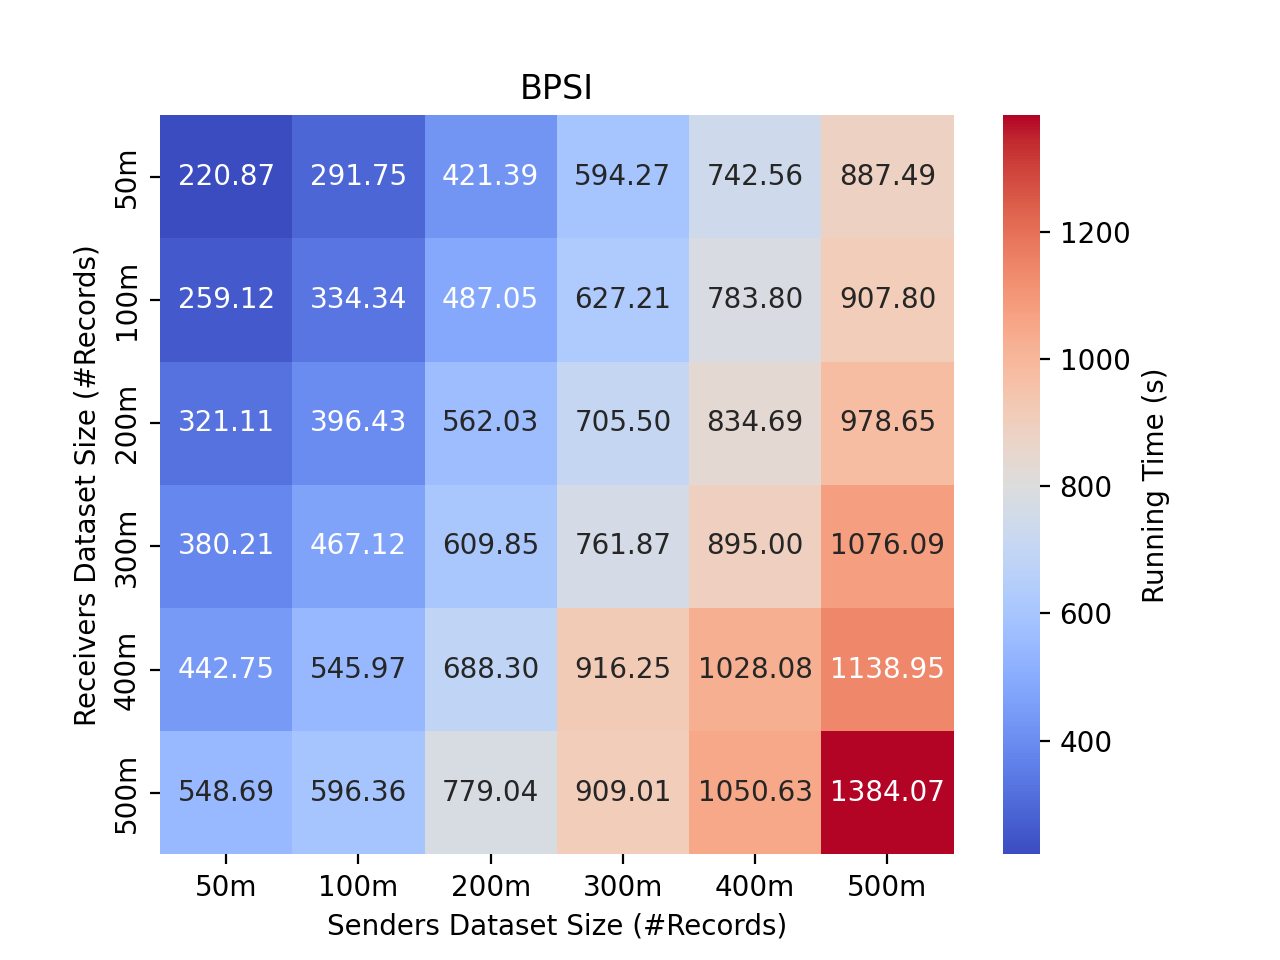
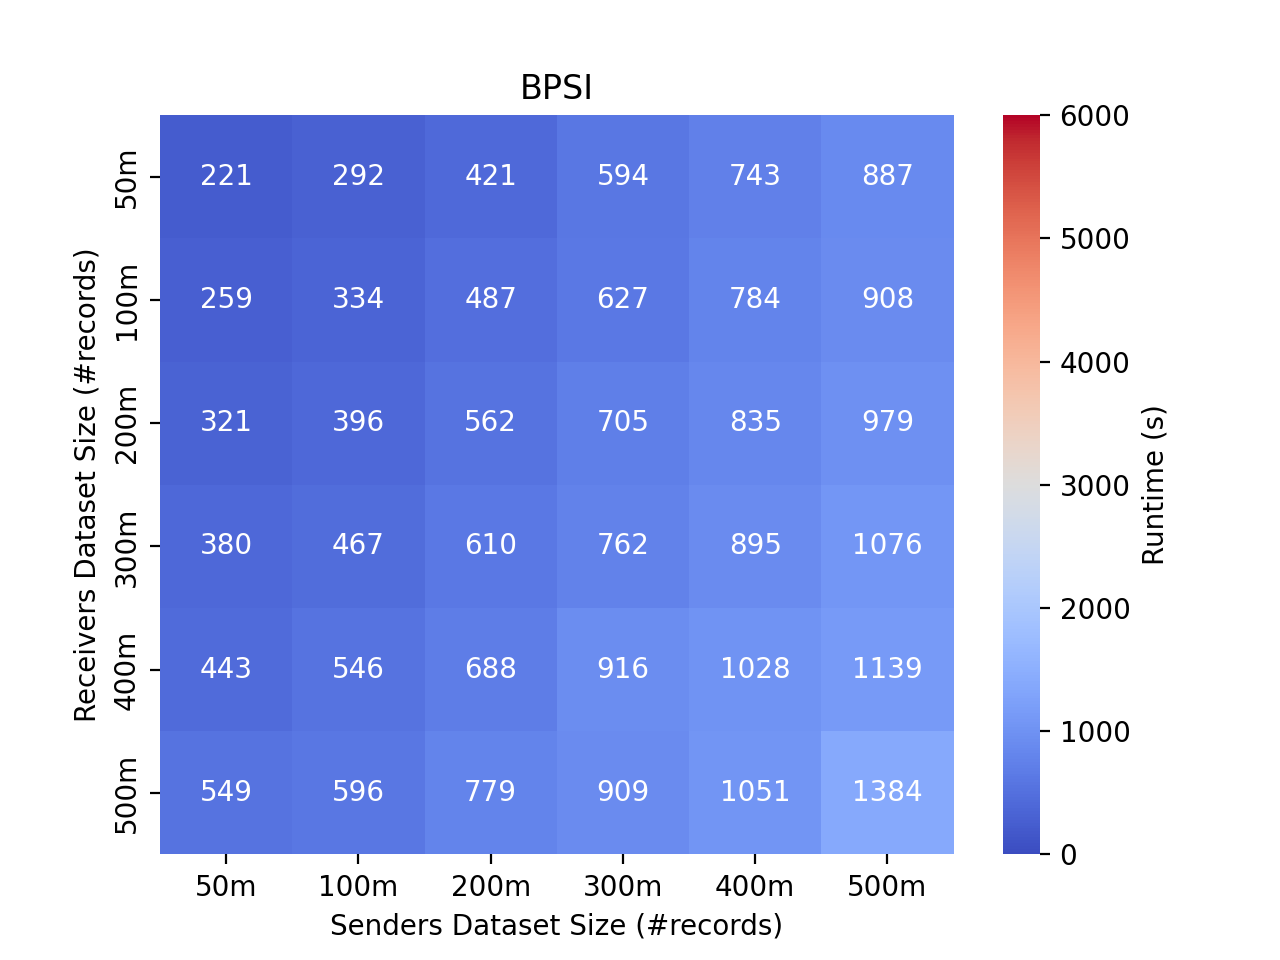
Making scale same for all heatmaps

diff --git a/benchmark/README.md b/benchmark/README.md
@@ -1,15 +1,25 @@
 # Benchmarks
 
-The following scatter plots show the results of benchmarking match attempts using different PSI algorithms on Google Cloud n2-standard-64 [general-purpose virtual machines (VMs)](https://cloud.google.com/compute/docs/general-purpose-machines#n2-standard). For each benchmark, the sender and receiver use the same model VM. In the first plot, the receiver has 100m records while the sender has varying datasets of 50m, 100m, 200m, 300m, 400m and 500m records where as in the second plot, the sender's dataset is of 100m records while the receiver has varying datasets of 50m, 100m, 200m, 300m, 400m and 500m records. The BPSI used for these experiments has a false positive rate fixed at 1e-6. 
+The following scatter plots show the results of benchmarking match attempts using different PSI algorithms on Google Cloud n2-standard-64 [general-purpose virtual machines (VMs)](https://cloud.google.com/compute/docs/general-purpose-machines#n2-standard). For each benchmark, the sender and the receiver use same type of VMs. In the first plot, the receiver has 100m records while the sender has varying datasets of 50m, 100m, 200m, 300m, 400m and 500m records where as in the second plot, the sender's dataset is of 100m records while the receiver has varying datasets of 50m, 100m, 200m, 300m, 400m and 500m records. The BPSI used for these experiments has a false positive rate fixed at 1e-6. Also, all the match attempts performed have an intersection size of 50m.
 
-![scatter_fixed_receiver.png](scatter_fixed_receiver.png)
+<p align="center">
+  <img src="scatter_fixed_receiver.png"/>
+</p>
 
-![scatter_fixed_sender.png](scatter_plot_sender_fixed.png)
+<p align="center">
+  <img src="scatter_plot_sender_fixed.png"/>
+</p>
 
 The results for match attempts using different PSI algorithms are provided below. Both sender and receiver used n2-standard-64 VMs with datasets containing 50m, 100m, 200m, 300m, 400m and 500m records. The receiver's datasets are represented row-wise while the sender's datasets are represented column-wise.
 
-![bpsi](heatmap_bpsi.png)
+<p align="center">
+  <img src="heatmap_bpsi.png"/>
+</p>
 
-![npsi](heatmap_npsi.png)
+<p align="center">
+  <img src="heatmap_npsi.png"/>
+</p>
 
-![dhpsi](heatmap_dhpsi.png)
+<p align="center">
+  <img src="heatmap_dhpsi.png"/>
+</p>
